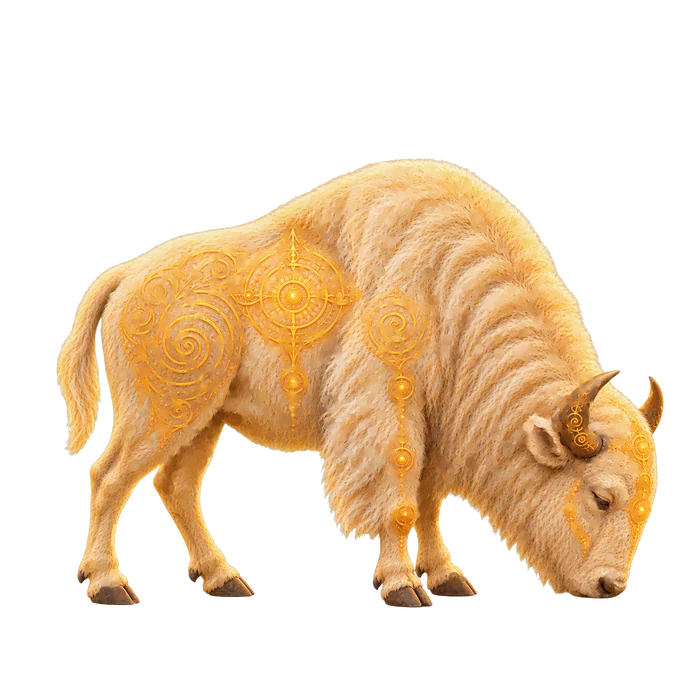
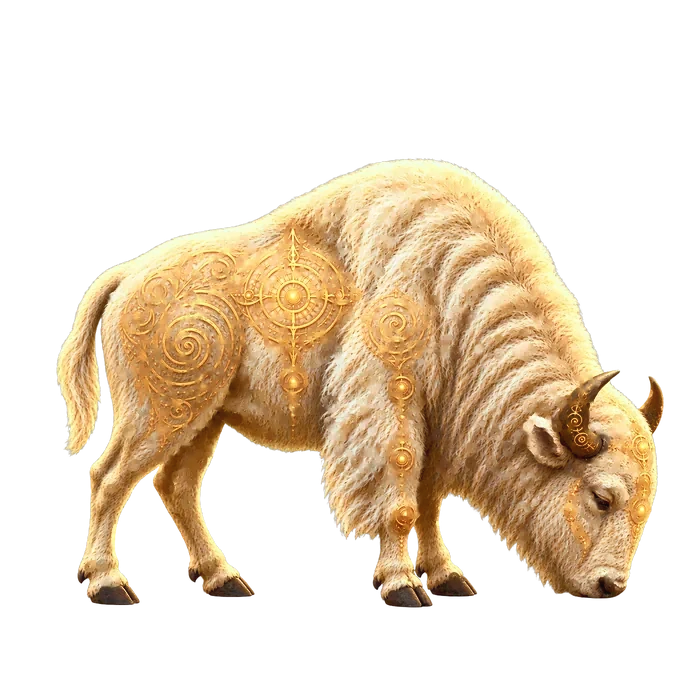
Bison: the grazing and head-up poses graded to match the facing bison exactly (histogram-matched in Lab over the bison)
Claude-Session: https://claude.ai/code/session_01X5u2D9a4RRbbCvwnE6RQKF

Changed region(s): [[0.06, 0.21, 0.96, 0.87]]

diff --git a/frontend/src/components/site/journeyEngine.js b/frontend/src/components/site/journeyEngine.js
@@ -498,7 +498,7 @@ export function mountJourney(root, { start = "hero", navigate } = {}) {
       <div class="shadow" aria-hidden="true"></div><div class="outline" aria-hidden="true"></div>
       <div class="tail" aria-hidden="true"><div class="tailOutline"></div><img class="tailImg" src="${tail}" alt="" decoding="async"></div>
       <img class="body" alt="The white bison" decoding="async">
-      ${["graze", "up"].map((k) => `<div class="pose ${k}" style="--sil:url(&quot;${A}w3-bison-${k}.webp&quot;)" aria-hidden="true"><i class="pulse"></i><i class="shadow"></i><i class="outline"></i><img src="${A}w3-bison-${k}.webp" alt="" decoding="async"></div>`).join("")}`;
+      ${["graze", "up"].map((k) => `<div class="pose ${k}" style="--sil:url(&quot;${A}w3-bison-${k}.webp?v=2&quot;)" aria-hidden="true"><i class="pulse"></i><i class="shadow"></i><i class="outline"></i><img src="${A}w3-bison-${k}.webp?v=2" alt="" decoding="async"></div>`).join("")}`;
     const body = rig.querySelector(".body");
     body.addEventListener("load", onLayer, { once: true }); body.addEventListener("error", onLayer, { once: true });
     body.src = src;

diff --git a/prototype/source/bison-colour-match.py b/prototype/source/bison-colour-match.py
@@ -1,0 +1,29 @@
+# match the grazing and head-up bisons' colour grade to the facing bison: per-channel histogram matching
+# in CIE Lab, over the opaque bison pixels only (alpha kept as is)
+from PIL import Image
+import numpy as np, sys
+def srgb2lin(c): c=c/255.0; return np.where(c<=0.04045, c/12.92, ((c+0.055)/1.055)**2.4)
+def lin2srgb(c): c=np.clip(c,0,1); return np.where(c<=0.0031308, c*12.92, 1.055*c**(1/2.4)-0.055)*255
+M=np.array([[0.4124564,0.3575761,0.1804375],[0.2126729,0.7151522,0.0721750],[0.0193339,0.1191920,0.9503041]]); Mi=np.linalg.inv(M)
+W=np.array([0.95047,1.0,1.08883])
+def f(t): return np.where(t>216/24389, np.cbrt(t), (24389/27*t+16)/116)
+def fi(t): return np.where(t**3>216/24389, t**3, (116*t-16)/(24389/27))
+def rgb2lab(rgb):
+    xyz=srgb2lin(rgb)@M.T/W; fx,fy,fz=f(xyz[...,0]),f(xyz[...,1]),f(xyz[...,2])
+    return np.stack([116*fy-16, 500*(fx-fy), 200*(fy-fz)],-1)
+def lab2rgb(lab):
+    fy=(lab[...,0]+16)/116; fx=fy+lab[...,1]/500; fz=fy-lab[...,2]/200
+    xyz=np.stack([fi(fx),fi(fy),fi(fz)],-1)*W; return lin2srgb(xyz@Mi.T)
+def match(src_vals, ref_vals, x):
+    # map x through src's CDF onto ref's quantiles
+    q=np.linspace(0,1,1001); sq=np.quantile(src_vals,q); rq=np.quantile(ref_vals,q)
+    sq=np.maximum.accumulate(sq+np.arange(len(sq))*1e-9)
+    return np.interp(x, sq, rq)
+ref=np.asarray(Image.open(sys.argv[1]).convert('RGBA')).astype(float); rm=ref[...,3]>200; rl=rgb2lab(ref[...,:3])[rm]
+for path in sys.argv[2:]:
+    im=np.asarray(Image.open(path).convert('RGBA')).astype(float); a=im[...,3]; m=a>200; lab=rgb2lab(im[...,:3]); sl=lab[m]
+    out=lab.copy()
+    for ch in range(3): out[...,ch]=match(sl[:,ch], rl[:,ch], lab[...,ch])
+    rgb=lab2rgb(out); rgb=np.where((a>0)[...,None], rgb, im[...,:3])
+    Image.fromarray(np.dstack([np.clip(rgb,0,255),a]).astype(np.uint8),'RGBA').save(path,'WEBP',quality=88,method=6)
+    print('graded', path)
